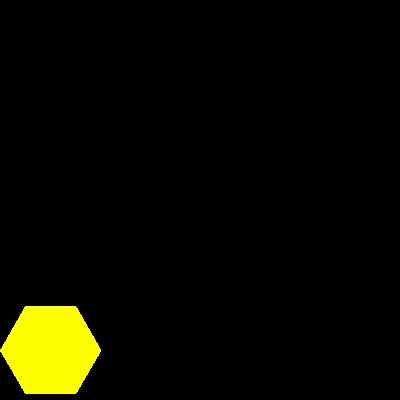
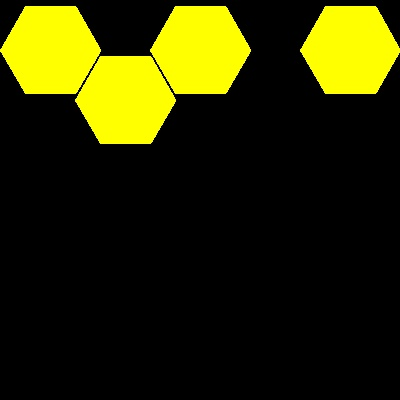
loop
Цикл для заполнения строки

Changed region(s): [[0.0, 0.0, 0.63, 0.36], [0.75, 0.0, 1.0, 0.24], [0.0, 0.75, 0.27, 0.99]]

diff --git a/Main.py b/Main.py
@@ -10,61 +10,47 @@ cv2.imwrite('output.jpg',im)'''
 import cv2 as cv
 import numpy as np
 W = 400
+
 def hexagon(img):
     l = 100
     x0 = 0
-    y0 = 300
-    '''ppt = np.array([[int(l/4+x0),int(l*(3**0.5-2)/4+y0)],
-                    [int(3*l/4+x0),int(l*(3**0.5-2)/4+y0)],
-                    [x0 + l, y0 - l / 2],
-                    [int(3 * l / 4 + x0), int(-l * (3 ** 0.5 + 2) / 4 + y0)],
-                    [int(l/4+x0),int(-l*(3**0.5+2)/4+y0)],
-                    [x0,int(y0-l/2)]],np.int32)'''
-    ppt = np.array([[int(l / 4 + x0), int(l * (-3 ** 0.5 + 2) / 4 + y0)],
+    y0 = 0
+    for i in range(int(4*W/(l*6))+1):
+        ppt1 = np.array([[int(l / 4 + x0), int(l * (-3 ** 0.5 + 2) / 4 + y0)],
                     [int(3 * l / 4 + x0), int(l * (-3 ** 0.5 + 2) / 4 + y0)],
                     [x0 + l, y0 + l / 2],
                     [int(3 * l / 4 + x0), int(l * (3 ** 0.5 + 2) / 4 + y0)],
                     [int(l / 4 + x0), int(l * (3 ** 0.5 + 2) / 4 + y0)],
                     [x0, int(y0 + l / 2)]], np.int32)
-    print(ppt)
-    ppt = ppt.reshape((-1, 1, 2))
-    #cv.fillPoly(img, ppt, (0, 255, 255), 1)
-    #img = cv.fillPoly(img, ppt, (0, 255, 255),cv.LINE_4)
-    img = cv.fillConvexPoly(img, ppt, (0, 255, 255),cv.LINE_4)
+        ppt1 = ppt1.reshape((-1, 1, 2))
+        img = cv.fillConvexPoly(img, ppt1, (0, 255, 255), cv.LINE_4)
+        x0 = 6 * l / 4+ x0
+    #-----
+    '''l = 100
+    x0 = 6*l/4
+    y0 = 0
+    ppt2 = np.array([[int(l / 4 + x0), int(l * (-3 ** 0.5 + 2) / 4 + y0)],
+                     [int(3 * l / 4 + x0), int(l * (-3 ** 0.5 + 2) / 4 + y0)],
+                     [x0 + l, y0 + l / 2],
+                     [int(3 * l / 4 + x0), int(l * (3 ** 0.5 + 2) / 4 + y0)],
+                     [int(l / 4 + x0), int(l * (3 ** 0.5 + 2) / 4 + y0)],
+                     [x0, int(y0 + l / 2)]], np.int32)
+    ppt2 = ppt2.reshape((-1, 1, 2))
+    img = cv.fillConvexPoly(img, ppt2, (0, 255, 255),cv.LINE_4)'''
+    #----
+    l = 100
+    x0 = 3 * l / 4
+    y0 = l / 2
+    ppt3 = np.array([[int(l / 4 + x0), int(l * (-3 ** 0.5 + 2) / 4 + y0)],
+                     [int(3 * l / 4 + x0), int(l * (-3 ** 0.5 + 2) / 4 + y0)],
+                     [x0 + l, y0 + l / 2],
+                     [int(3 * l / 4 + x0), int(l * (3 ** 0.5 + 2) / 4 + y0)],
+                     [int(l / 4 + x0), int(l * (3 ** 0.5 + 2) / 4 + y0)],
+                     [x0, int(y0 + l / 2)]], np.int32)
+    ppt3 = ppt3.reshape((-1, 1, 2))
+    img = cv.fillConvexPoly(img, ppt3, (0, 255, 255), cv.LINE_4)
     return img
-    #cv.polylines(img, [ppt], True, (255, 0, 255),thickness=8)
-def my_polygon(img):
-    line_type = 8
-    # Create some points
-    length = 100
 
-    '''ppt = np.array([[W / 4, W / 4],  [W / 4+length, W / 4+length]
-                       ], np.int32)'''
-    '''[W / 4+length, W / 4],,[W / 4, W / 4+length/2]
-                    [W / 4, W / 4+length],ppt = np.array([[W / 4, W / 4], [2 * W / 4,  W / 4],
-                    [2 * W / 4, 2*W / 4], [W /4, 2*W / 4]], np.int32)'''
-    '''ppt = np.array([[W / 4, 7 * W / 8], [3 * W / 4, 7 * W / 8],
-                    [3 * W / 4, 13 * W / 16], [11 * W / 16, 13 * W / 16]],np.int32)
-
-    [19 * W / 32, 3 * W / 8], [3 * W / 4, 3 * W / 8],
-                    [3 * W / 4, W / 8], [26 * W / 40, W / 8],
-                    [26 * W / 40, W / 4], [22 * W / 40, W / 4],
-                    [22 * W / 40, W / 8], [18 * W / 40, W / 8],
-                    [18 * W / 40, W / 4], [14 * W / 40, W / 4],
-                    [14 * W / 40, W / 8], [W / 4, W / 8],
-                    [W / 4, 3 * W / 8], [13 * W / 32, 3 * W / 8],
-                    [5 * W / 16, 13 * W / 16], [W / 4, 13 * W / 16]],'''
-
-    '''ppt = ppt.reshape((2, 1, 2))'''
-    img1 = cv.rectangle(img=img,
-                        rec = (int(W / 4-length/2), int(W / 4-length/2),length,length),
-                        color=(255, 100, 255),thickness =-1)
-    img1 = cv.rectangle(img=img,
-                        rec=(int(W / 4 + length/2+10),
-                             int(W / 4-length/2),length,length),
-                        color=(0, 0, 255), thickness=-1)
-    return img1
-    #cv.fillPoly(img, [ppt], (255, 100, 255), line_type)
 
 atom_window = "Drawing 1: Atom"
 rook_window = "Drawing 2: Rook"
@@ -73,9 +59,7 @@ size = W, W, 3
 atom_image = np.zeros(size, dtype=np.uint8)
 rook_image = np.zeros(size, dtype=np.uint8)
 hexagon(atom_image)
-my_polygon(rook_image)
-pts = np.array([[10,5],[20,30],[70,20],[50,10]], np.int32)
-pts = pts.reshape((-1,1,2))
+
 
 
 cv.imwrite('output1.jpg',atom_image)
